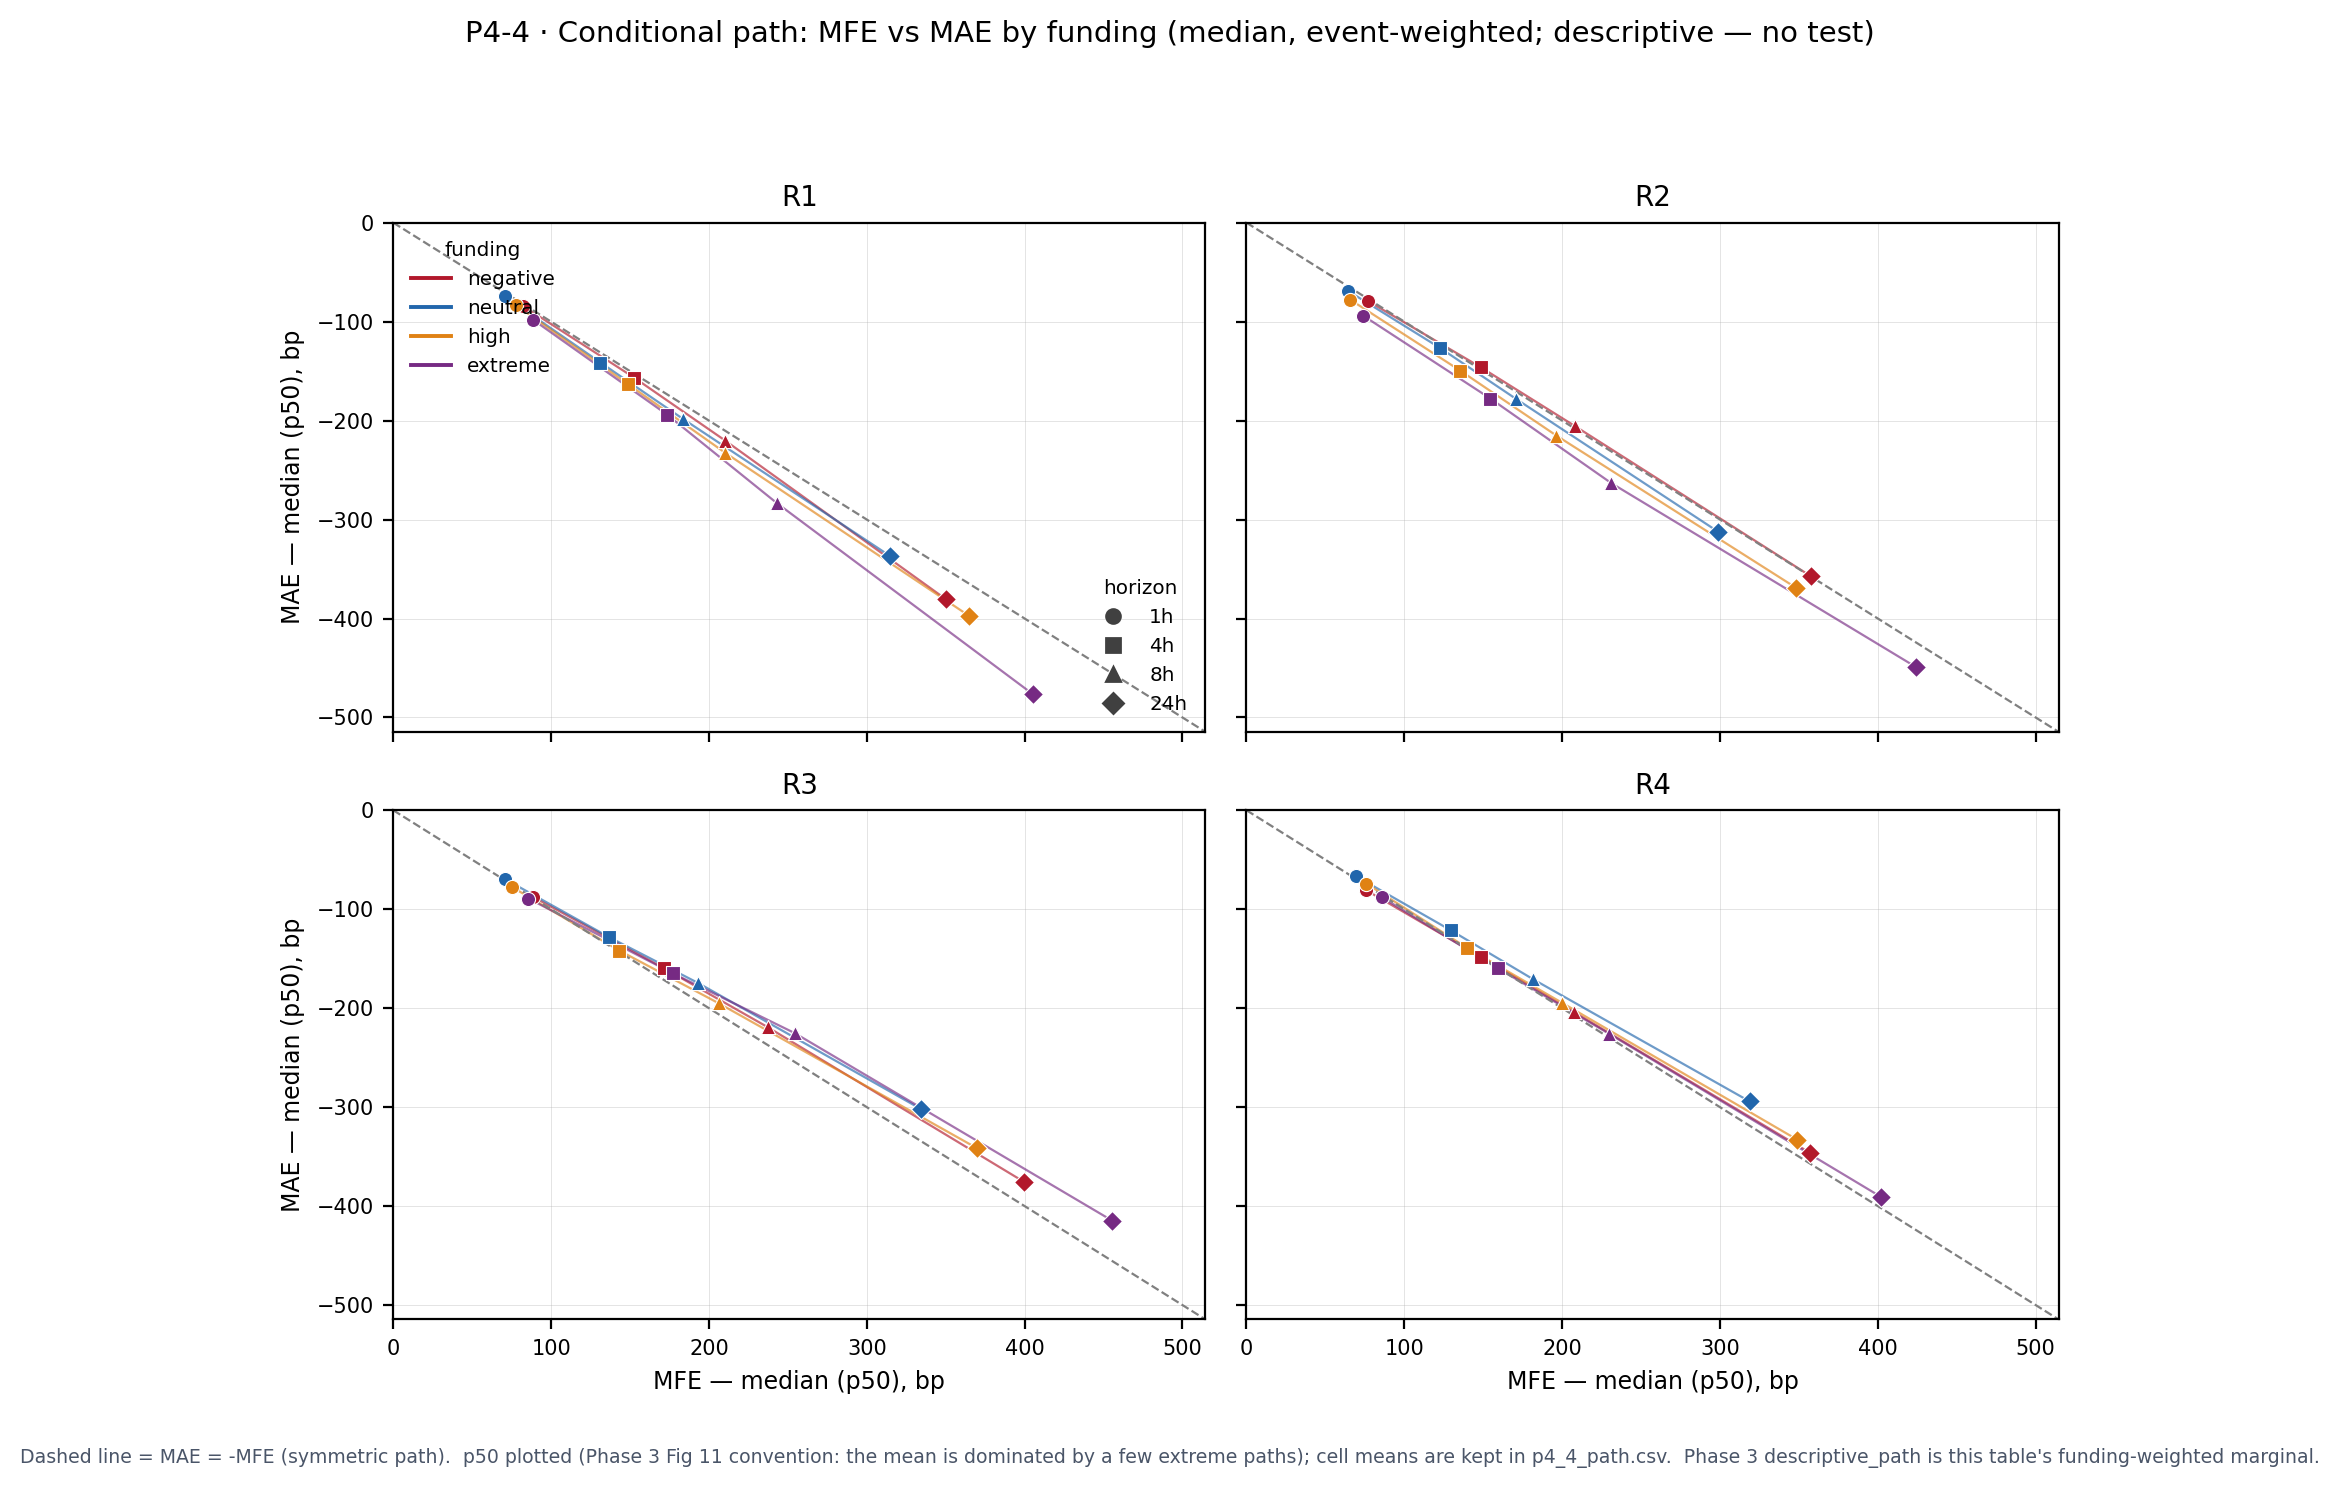
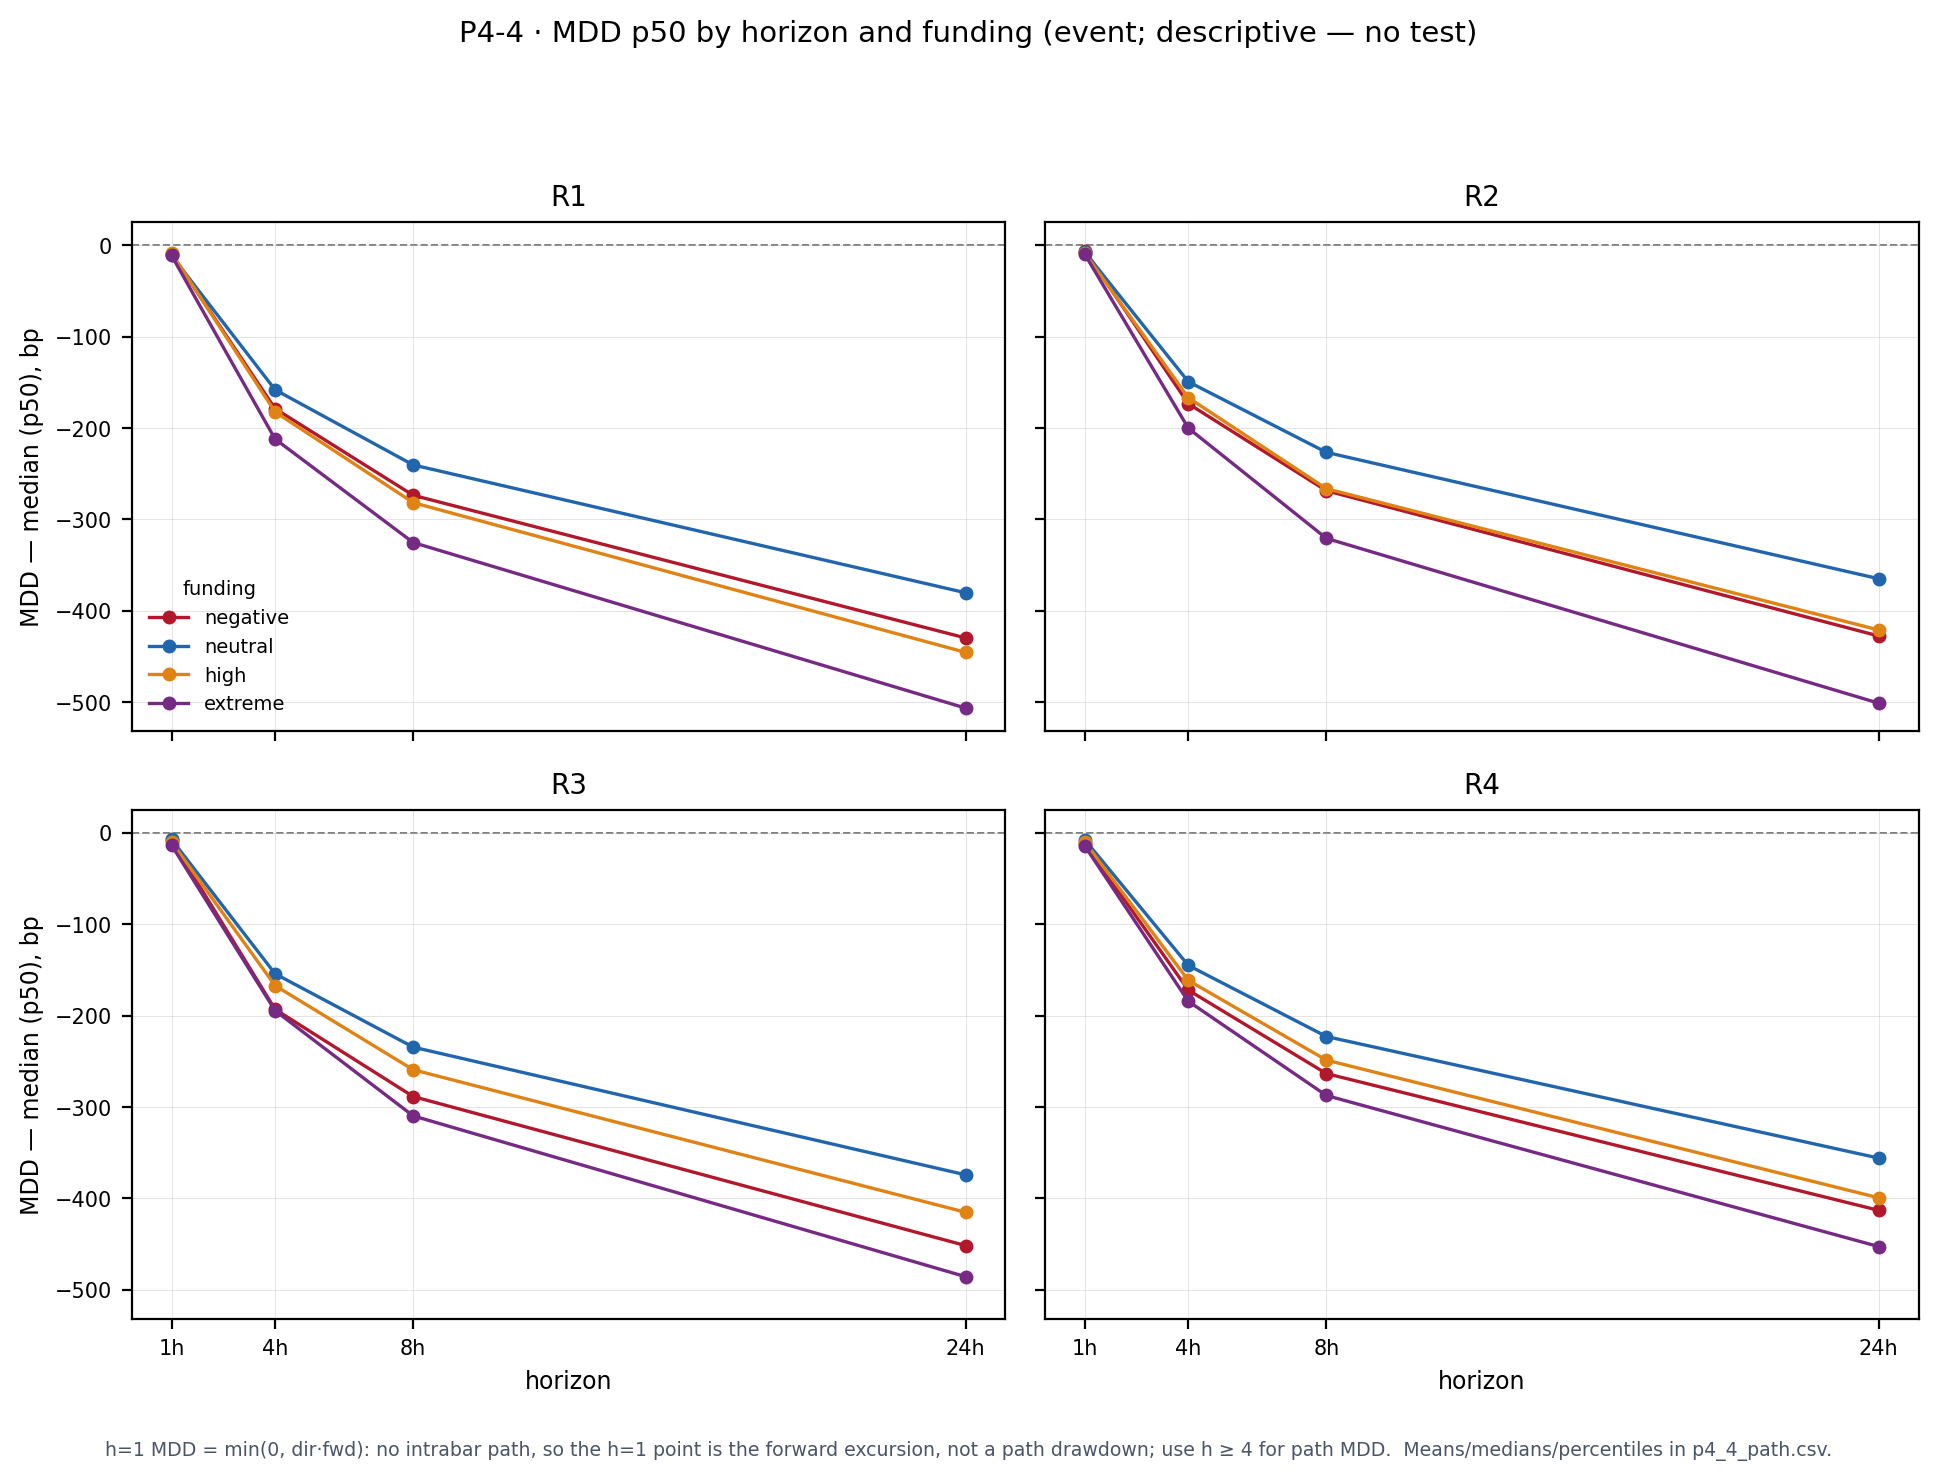
fix(p4): figures and contract-month count
f_p4_4 now MDD p50 by horizon (old MFE/MAE panels overlapped); f04 shows all cells, event gray vs contract-day, BH16+drop5 filled; f03 legend BH12; guidance 17.1 unique contract-months.

diff --git a/phase4_funding/figures.py b/phase4_funding/figures.py
@@ -32,57 +32,34 @@ MARKERS = {1: "o", 4: "s", 8: "^", 24: "D"}
 def f_p4_4() -> None:
     d = pd.read_parquet(TBL / "p4_4_path.parquet")
     d = d[d["weighting"] == "event"]
-    rows = []
-    for h in HORIZONS:
-        for f in FUNDS:
-            s = d[(d["h"] == h) & (d["funding"] == f)]
-            rows.append(s["mfe_median"].to_numpy() * 1e4)
-            rows.append(s["mae_median"].to_numpy() * 1e4)
-    lim = float(np.nanmax(np.abs(np.concatenate(rows)))) * 1.08
-
-    fig, axes = plt.subplots(2, 2, figsize=(9.2, 7.4), sharex=True, sharey=True)
+    fig, axes = plt.subplots(2, 2, figsize=(9.8, 7.4), sharex=True, sharey=True)
     for ax, r in zip(axes.ravel(), ["R1", "R2", "R3", "R4"]):
         for f in FUNDS:
             s = (d[(d["regime"] == r) & (d["funding"] == f)]
                  .set_index("h").reindex(HORIZONS))
-            x = s["mfe_median"].to_numpy() * 1e4
-            y = s["mae_median"].to_numpy() * 1e4
-            ax.plot(x, y, color=COLORS[f], lw=0.8, alpha=0.65, zorder=2)
-            for i, h in enumerate(HORIZONS):
-                ax.scatter(x[i], y[i], marker=MARKERS[h], s=26,
-                           color=COLORS[f], edgecolor="white", lw=0.4, zorder=3)
-        ax.plot([0, lim], [0, -lim], ls="--", lw=0.8, color="0.5")
+            y = s["mdd_p50"].to_numpy() * 1e4
+            ax.plot(HORIZONS, y, color=COLORS[f], lw=1.2, marker="o", ms=4,
+                    label=f, zorder=3)
+        ax.axhline(0, color="0.5", lw=0.7, ls="--", zorder=1)
         ax.set_title(r, fontsize=10)
-        ax.set_xlim(0, lim)
-        ax.set_ylim(-lim, 0)
+        ax.set_xticks(HORIZONS)
+        ax.set_xticklabels([f"{h}h" for h in HORIZONS], fontsize=7.5)
         ax.grid(lw=0.3, alpha=0.4)
         ax.tick_params(labelsize=7.5)
     for ax in axes[-1]:
-        ax.set_xlabel("MFE — median (p50), bp", fontsize=8.5)
+        ax.set_xlabel("horizon", fontsize=8.5)
     for ax in axes[:, 0]:
-        ax.set_ylabel("MAE — median (p50), bp", fontsize=8.5)
-
-    fund_handles = [Line2D([0], [0], color=COLORS[f], lw=1.4, label=f)
-                    for f in FUNDS]
-    h_handles = [Line2D([0], [0], marker=MARKERS[h], color="0.25", ls="",
-                        ms=5, label=f"{h}h") for h in HORIZONS]
-    ax0 = axes[0, 0]
-    leg1 = ax0.legend(handles=fund_handles, fontsize=7.2, frameon=False,
-                      loc="upper left", title="funding", title_fontsize=7.2)
-    ax0.add_artist(leg1)
-    ax0.legend(handles=h_handles, fontsize=7.2, frameon=False,
-               loc="lower right", title="horizon", title_fontsize=7.2)
-
-    fig.suptitle("P4-4 · Conditional path: MFE vs MAE by funding "
-                 "(median, event-weighted; descriptive — no test)", fontsize=10.5)
-    fig.text(0.5, 0.005,
-             "Dashed line = MAE = -MFE (symmetric path).  p50 plotted (Phase 3 Fig 11 "
-             "convention: the mean is dominated by a few extreme paths); cell means are "
-             "kept in p4_4_path.csv.  Phase 3 descriptive_path is this table's "
-             "funding-weighted marginal.",
+        ax.set_ylabel("MDD — median (p50), bp", fontsize=8.5)
+    axes[0, 0].legend(fontsize=7, frameon=False, title="funding",
+                      title_fontsize=7)
+    fig.suptitle("P4-4 · MDD p50 by horizon and funding "
+                 "(event; descriptive — no test)", fontsize=10.5)
+    fig.text(0.5, 0.01,
+             "h=1 MDD = min(0, dir·fwd): no intrabar path, so the h=1 point is "
+             "the forward excursion, not a path drawdown; use h ≥ 4 for path "
+             "MDD.  Means/medians/percentiles in p4_4_path.csv.",
              ha="center", fontsize=6.8, color="#4a5568")
     fig.tight_layout(rect=(0, 0.03, 1, 0.93))
-
     OUT.mkdir(parents=True, exist_ok=True)
     fig.savefig(OUT / "f_p4_4_path.png", dpi=200, bbox_inches="tight")
     plt.close(fig)
@@ -93,13 +70,11 @@ def f_p4_5() -> None:
     d = pd.read_parquet(TBL / "p4_5_beta.parquet")
     d = d[d["outcome"].isin(["y_raw", "rev"])].copy()
     d["sig"] = (d["p_bh"] < 0.05) & (d["t_drop5"].abs() > 1.96)
-    d = d[d["sig"]].copy()
     d["row"] = (d["regime"] + " × " + d["funding"] + "  "
                 + d["h"].astype(str) + "h")
     order = [f"{r} × {f}  {h}h" for r in ["R1", "R2", "R3", "R4"]
              for f in FUNDS for h in HORIZONS]
     ypos = {k: i for i, k in enumerate(order)}
-    ev_col, ct_col = "#2b6cb0", "#c05621"
     fig, axes = plt.subplots(1, 2, figsize=(13.2, 10.5))
     for ax, dv, xlab, ttl in (
             (axes[0], "y_raw", "beta, bp (y_raw)",
@@ -107,13 +82,16 @@ def f_p4_5() -> None:
             (axes[1], "rev", "beta, pp (rev)",
              "P4-5b · reversal gap vs matched benchmark (pp)")):
         s = d[d["outcome"] == dv]
-        for w, color, lab in (("event", ev_col, "event"),
-                              ("contract_day", ct_col, "contract-day")):
+        for w, color, ms, alpha in (
+                ("event", "0.55", 2.8, 0.55),
+                ("contract_day", "#c05621", 4.2, 1.0)):
             q = s[s["weighting"] == w]
-            ax.errorbar(q["beta"], [ypos[c] for c in q["row"]],
-                        xerr=1.96 * q["se"], fmt="o", color=color,
-                        ms=4.2, lw=0.9, capsize=2, mec="white", mew=0.3,
-                        label=lab, zorder=3)
+            for _, r in q.iterrows():
+                ax.errorbar(float(r["beta"]), ypos[r["row"]],
+                            xerr=1.96 * float(r["se"]), fmt="o",
+                            color=color, ms=ms, lw=0.7, capsize=1.8,
+                            mfc=color if r["sig"] else "white", mec=color,
+                            mew=0.5, alpha=alpha, zorder=3)
         ax.axvline(0, color="0.35", lw=0.8, zorder=1)
         ax.set_yticks(range(len(order)))
         ax.set_yticklabels(order, fontsize=5.9)
@@ -122,15 +100,23 @@ def f_p4_5() -> None:
         ax.set_title(ttl, fontsize=9.5)
         ax.grid(axis="x", lw=0.3, alpha=0.4)
         ax.tick_params(labelsize=7)
-        ax.legend(fontsize=7.5, frameon=False, loc="lower right")
-    fig.suptitle("P4-5 · significant cells only (BH16 + drop5): forest",
-                 fontsize=11)
-    fig.text(0.5, 0.005,
-             "Only cells with at least one BH16 + drop5 point are drawn; blank "
-             "row = not significant.  Full table: p4_5_beta.csv.  Positive = "
-             "regime beats the same-direction, same-funding benchmark.",
+    handles = [
+        Line2D([0], [0], color="0.55", lw=1.2, label="event"),
+        Line2D([0], [0], color="#c05621", lw=1.2, label="contract-day"),
+        Line2D([0], [0], color="0.25", ls="", marker="o", ms=4,
+               markerfacecolor="0.25", label="BH16 + drop5"),
+        Line2D([0], [0], color="0.25", ls="", marker="o", ms=4,
+               markerfacecolor="white", label="not significant"),
+    ]
+    fig.legend(handles=handles, loc="lower center", ncol=4, fontsize=7,
+               frameon=False, bbox_to_anchor=(0.5, 0.005))
+    fig.suptitle("P4-5 · all cells, BH16 + drop5 filled: forest", fontsize=11)
+    fig.text(0.5, 0.035,
+             "Event (gray): 0/16 significant.  Contract-day (orange): 5/16.  "
+             "R1 neutral +2.35bp (event) vs -6.23bp (contract-day); the beta is "
+             "weight-dependent, not one estimate.  Full table: p4_5_beta.csv.",
              ha="center", fontsize=6.8, color="#4a5568")
-    fig.tight_layout(rect=(0, 0.02, 1, 0.95))
+    fig.tight_layout(rect=(0, 0.06, 1, 0.95))
     OUT.mkdir(parents=True, exist_ok=True)
     fig.savefig(OUT / "f04_beta_forest.png", dpi=200, bbox_inches="tight")
     plt.close(fig)
@@ -253,7 +239,7 @@ def f_p4_3_difference() -> None:
         Line2D([0], [0], color="#2b6cb0", lw=1.2, label="event"),
         Line2D([0], [0], color="#c05621", lw=1.2, label="contract-day"),
         Line2D([0], [0], color="0.25", ls="", marker="o", ms=4,
-               markerfacecolor="0.25", label="BH16 + drop5"),
+               markerfacecolor="0.25", label="BH12 + drop5"),
         Line2D([0], [0], color="0.25", ls="", marker="o", ms=4,
                markerfacecolor="white", label="not significant"),
     ]

diff --git a/phase4_funding/GUIDANCE.md b/phase4_funding/GUIDANCE.md
@@ -500,7 +500,7 @@ phase4_funding/
 
 ## 17. 校验闸门
 
-1. **n 对账。** h=1：255,857 行；互斥合计 93,489 / 123,907 / 18,834 / 19,627；合约-月 9,499 / 9,461 / 3,377 / 2,777；R1 × neutral 2,384；R1 × extreme 752；R3 × extreme 584；R1 × high 13,184 / 1,183。
+1. **n 对账。** h=1：255,857 行；互斥合计 93,489 / 123,907 / 18,834 / 19,627；唯一合约-月 2,572 / 2,447 / 1,048 / 899（总 2,700；9,499 / 9,461 / 3,377 / 2,777 是按 regime 重复计数的 cell 级求和）；R1 × neutral 2,384；R1 × extreme 752；R3 × extreme 584；R1 × high 13,184 / 1,183。
 2. **关联。** P4-1/2 的 panel 行与 P4-3/4/5/6 的 events 行按 `(symbol, ts_end)` 一一对应；`fwd_h` 无缺失；`y_raw = fwd_h − 市场均值` 的小时内恒等式（标准差 < 1e-12）。
 3. **High 并集。** `high` 均值 = `w2 × high-only + w3 × extreme`（< 1e-12），每个 `(h, weighting, regime)`。
 4. **互斥合计。** 16 个互斥格的 n 等于 P4 样本量（每个 `(h, weighting)`）。
